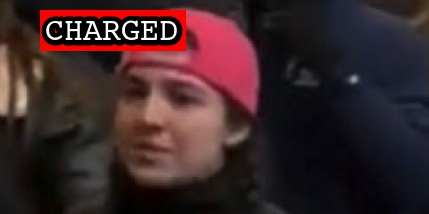
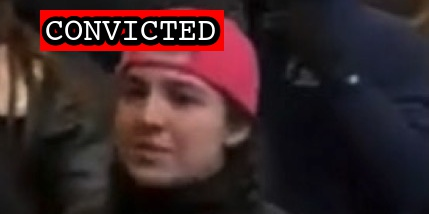
Latest import

Changed region(s): [[0.1212, 0.028, 0.5455, 0.2523]]

diff --git a/docs/_suspects/abigail-yazdani-isfehani.md b/docs/_suspects/abigail-yazdani-isfehani.md
@@ -4,15 +4,17 @@ lastName: Yazdani-Isfehani
 hashtag:
 aka: Abby Yazdani
 residence: Ohio
-status: Charged
+status: Convicted
 date: 2022-02-18
 charged: 2022-02-18
 indicted:
-convicted:
+convicted: 2022-07-29
+acquitted:
 sentenced:
 dismissed:
 deceased:
-plea_hearing:
+plea_hearing: 2022-07-29
+trial_date:
 sentencing:
 age: 27
 occupation:
@@ -31,12 +33,18 @@ description: Click for latest case details. Suspects innocent until proven guilt
 author: seditiontrack
 layout: suspect
 published: true
-caseNumber: 1:22-mj-33
+caseNumber: 1:21-cr-543
 videos:
 charges:
+- code: 40 USC § 5104(e)(2)(G)
+  title: Parading, demonstrating or picketing in a Capitol building
+  url: https://www.law.cornell.edu/uscode/text/40/5104
+  felony: false
 sentence:
 ---
-
 - [News Report](https://sports.yahoo.com/two-athens-county-sisters-join-205327176.html)
 - [Complaint](https://www.justice.gov/usao-dc/case-multi-defendant/file/1477216/download)
 - [Statement of Facts](https://www.justice.gov/usao-dc/case-multi-defendant/file/1477221/download)
+- [Information](https://www.justice.gov/usao-dc/case-multi-defendant/file/1523056/download)
+- [Plea Agreement](https://www.justice.gov/usao-dc/case-multi-defendant/file/1523061/download)
+- [Statement of Offense](https://www.justice.gov/usao-dc/case-multi-defendant/file/1523066/download)

diff --git a/docs/_suspects/loruhamah-yazdani-isfehani.md b/docs/_suspects/loruhamah-yazdani-isfehani.md
@@ -4,15 +4,17 @@ lastName: Yazdani-Isfehani
 hashtag:
 aka: Loru Yazdani
 residence: Ohio
-status: Charged
+status: Convicted
 date: 2022-02-18
 charged: 2022-02-18
 indicted:
-convicted:
+convicted: 2022-07-29
+acquitted:
 sentenced:
 dismissed:
 deceased:
-plea_hearing:
+plea_hearing: 2022-07-29
+trial_date:
 sentencing:
 age: 33
 occupation:
@@ -31,12 +33,18 @@ description: Click for latest case details. Suspects innocent until proven guilt
 author: seditiontrack
 layout: suspect
 published: true
-caseNumber: 1:22-mj-33
+caseNumber: 1:21-cr-543
 videos:
 charges:
+- code: 40 USC § 5104(e)(2)(G)
+  title: Parading, demonstrating or picketing in a Capitol building
+  url: https://www.law.cornell.edu/uscode/text/40/5104
+  felony: false
 sentence:
 ---
-
 - [News Report](https://sports.yahoo.com/two-athens-county-sisters-join-205327176.html)
 - [Complaint](https://www.justice.gov/usao-dc/case-multi-defendant/file/1477226/download)
 - [Statement of Facts](https://www.justice.gov/usao-dc/case-multi-defendant/file/1477231/download)
+- [Information](https://www.justice.gov/usao-dc/case-multi-defendant/file/1523071/download)
+- [Plea Agreement](https://www.justice.gov/usao-dc/case-multi-defendant/file/1523076/download)
+- [Statement of Offense](https://www.justice.gov/usao-dc/case-multi-defendant/file/1523091/download)
